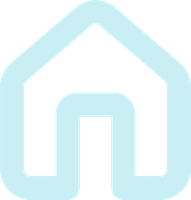
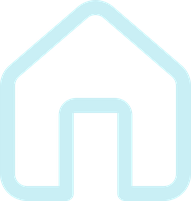
Integrate the new asset set on Trade Day Check-In and the dock
All seven assets trimmed of transparent padding, scaled and installed.

- checklist .png turned out to be the icon circle and title pill as one
  piece, not just the pill, so it replaces both. Applied as a 9-slice:
  the left border carries the circle and is kept equal to the row height
  so it always renders round, the right border holds the pill's cap, and
  only the middle stretches. The label reaches past the right border so
  it sits mid-pill rather than mid-content-box.
- Doc menu Circle serves both its uses: the check-off ring on every
  checklist row (green tick drops inside it when done) and the dock
  active-state indicator, which now tracks the section you're in —
  home/lesson, videos, or check-in.
- icon-button-frame backs the four category buttons.
- Home Icon and Play button icon replace the old files in place, so they
  apply everywhere those icons already appeared: the dock home and play,
  the check-in bar's home, and the check-in dock's play.
- Trade day and Trade Journal icons head two new side-menu entries.
  Check-In opens the screen; Trade Journal opens a coming-soon panel
  since that screen does not exist yet.

Cleanup: the old top-bar clipboard icon is gone — the side menu is now
the entry point, so there is no second, conflicting way in. The check-in
dock keeps its list icon as that section's tab marker.

Row height trimmed 58->55px with matching spacing so the four category
labels clear the card on a standard phone; the new frames are larger
[…]

diff --git a/css/style.css b/css/style.css
@@ -400,6 +400,19 @@ img { user-select: none; -webkit-user-drag: none; }
   transition: transform .12s ease, filter .2s ease;
 }
 .dock-btn:active { transform: scale(.9); filter: brightness(1.45); }
+/* Doc menu Circle sits behind whichever icon matches the current section */
+.dock-btn.active::before {
+  content: "";
+  position: absolute;
+  inset: 50% auto auto 50%;
+  translate: -50% -50%;
+  width: 46px;
+  height: 46px;
+  background: url("../assets/buttons-icon/checkin-status-ring@2x.png") center / contain no-repeat;
+  pointer-events: none;
+}
+.dock-btn { position: relative; }
+.dock-btn.active img { filter: brightness(1.25); }
 .dock-btn img { width: 30px; height: 30px; object-fit: contain; }
 .dock-btn.glow-cyan { filter: brightness(1.45) drop-shadow(0 0 10px rgba(61,223,255,.65)); }
 
@@ -1076,6 +1089,25 @@ img { user-select: none; -webkit-user-drag: none; }
 }
 .sv-other.hidden { display: none; }
 
+/* side-menu shortcuts to the standalone tools */
+.menu-tools { display: flex; flex-direction: column; gap: 10px; margin-bottom: 18px; }
+.menu-tool {
+  display: flex;
+  align-items: center;
+  gap: 12px;
+  width: 100%;
+  padding: 10px 14px;
+  border-radius: 16px;
+  background: linear-gradient(180deg, rgba(20,32,64,.55), rgba(7,10,24,.8));
+  border: 1px solid rgba(61,223,255,.3);
+  font-size: calc(14.5px * var(--fs));
+  font-weight: 700;
+  color: #EAF6FF;
+  text-align: left;
+}
+.menu-tool img { width: 30px; height: 30px; object-fit: contain; flex: 0 0 auto; }
+.menu-tool:active { border-color: var(--cyan); filter: brightness(1.2); }
+
 /* ===================== TRADE DAY CHECK-IN ===================== */
 
 /* date/time bar — replaces the progress bar on this screen. Home sits hard
@@ -1108,69 +1140,66 @@ img { user-select: none; -webkit-user-drag: none; }
   font-weight: 800;
   color: var(--cyan);
   text-shadow: 0 0 16px rgba(61,223,255,.6);
-  margin: 4px 0 22px;
+  margin: 2px 0 18px;
 }
 
 /* rows: icon placeholder · title pill · status. One tap target per row so the
    whole thing is hittable; the status circle only ever reports state. */
-.ci-list { display: flex; flex-direction: column; gap: 12px; }
+.ci-list { display: flex; flex-direction: column; gap: 9px; }
 .ci-row {
   display: grid;
-  grid-template-columns: 56px 1fr 40px;
+  grid-template-columns: 1fr 46px;
   align-items: center;
-  gap: 12px;
+  gap: 10px;
   width: 100%;
-  min-height: 52px;
   padding: 0;
   text-align: left;
 }
-.ci-icon {
-  width: 52px;
-  height: 52px;
-  border-radius: 50%;
-  border: 1.5px solid rgba(61,223,255,.5);
-  background: radial-gradient(circle at 34% 28%, rgba(61,223,255,.16), rgba(9,13,30,.92) 68%);
-  box-shadow: 0 0 12px -2px rgba(61,223,255,.45), inset 0 0 10px rgba(123,95,192,.3);
+/* checkin-row-plate is the icon circle and title pill as one piece, so it is
+   9-sliced: the left border holds the circle (rendered square, so it stays
+   round), the right border the pill's cap, and the middle stretches. */
+.ci-plate {
+  position: relative;
+  display: block;
+  height: 55px;
+  border-style: solid;
+  border-width: 0 20px 0 55px;
+  border-image: url("../assets/bars/checkin-row-plate@2x.png") 0 65 0 180 fill / 0 20px 0 55px stretch;
 }
-.ci-pill {
+/* centred across the pill itself — the padding box stops short of the cap,
+   so reach past it to keep the text visually mid-pill */
+.ci-label {
+  position: absolute;
+  inset: 0 -20px 0 0;
   display: grid;
   place-items: center;
-  min-height: 46px;
-  padding: 9px 14px;
-  border-radius: 999px;
-  border: 2px solid transparent;
-  border-image: url("../assets/bars/background-bar-pill@2x.png") 54 60 fill / 20px 23px stretch;
   font-size: calc(15px * var(--fs));
   font-weight: 700;
-  letter-spacing: .01em;      /* uniform across all six rows */
+  letter-spacing: .01em;
   color: #EAF6FF;
   text-align: center;
 }
 .ci-status {
-  width: 40px;
-  height: 40px;
-  border-radius: 50%;
-  border: 1.5px solid rgba(61,223,255,.45);
-  background: rgba(9,13,30,.85);
+  width: 46px;
+  height: 46px;
   position: relative;
+  background: url("../assets/buttons-icon/checkin-status-ring@2x.png") center / contain no-repeat;
 }
-/* empty circle -> green tick, drawn so it needs no icon asset */
-.ci-row.done .ci-status {
-  border-color: var(--teal);
-  box-shadow: 0 0 12px rgba(47,230,194,.55);
-}
+/* the ring is the untouched state; completing drops a green tick inside it */
 .ci-row.done .ci-status::after {
   content: "";
   position: absolute;
-  left: 13px;
-  top: 8px;
-  width: 9px;
-  height: 16px;
+  left: 16px;
+  top: 12px;
+  width: 10px;
+  height: 18px;
   border: solid var(--teal);
-  border-width: 0 2.5px 2.5px 0;
+  border-width: 0 3px 3px 0;
   transform: rotate(45deg);
+  filter: drop-shadow(0 0 6px rgba(47,230,194,.9));
 }
-.ci-row:active .ci-pill { filter: brightness(1.3); }
+.ci-row.done .ci-plate { filter: brightness(1.12); }
+.ci-row:active .ci-plate { filter: brightness(1.3); }
 .ci-row:active { transform: scale(.99); }
 
 /* four round action placeholders — laid out but inert until specified */
@@ -1178,17 +1207,14 @@ img { user-select: none; -webkit-user-drag: none; }
   display: grid;
   grid-template-columns: repeat(4, 1fr);
   gap: 8px;
-  margin: 26px 0 4px;
+  margin: 18px 0 2px;
 }
 .ci-action { display: flex; flex-direction: column; align-items: center; gap: 8px; }
 .ci-orb {
   width: 100%;
   max-width: 62px;
   aspect-ratio: 1;
-  border-radius: 50%;
-  border: 1.5px solid rgba(61,223,255,.45);
-  background: radial-gradient(circle at 34% 28%, rgba(61,223,255,.14), rgba(9,13,30,.92) 70%);
-  box-shadow: 0 0 14px -3px rgba(255,61,154,.45), inset 0 0 12px rgba(123,95,192,.28);
+  background: url("../assets/buttons-icon/icon-button-frame@2x.png") center / contain no-repeat;
 }
 .ci-action-label {
   font-size: calc(10.5px * var(--fs));

diff --git a/js/app.js b/js/app.js
@@ -721,8 +721,7 @@
         ${CHECKIN_ITEMS.map((it) => `
           <button class="ci-row${store.checklist[it.id] ? " done" : ""}" data-ci="${it.id}"
                   aria-pressed="${!!store.checklist[it.id]}">
-            <span class="ci-icon" aria-hidden="true"></span>
-            <span class="ci-pill">${esc(it.label)}</span>
+            <span class="ci-plate"><span class="ci-label">${esc(it.label)}</span></span>
             <span class="ci-status" aria-hidden="true"></span>
           </button>`).join("")}
       </div>
@@ -745,6 +744,14 @@
     render();
   }
 
+  /* ring behind whichever dock icon matches the section you're in */
+  function syncDockActive() {
+    $("navHome").classList.toggle("active", state.view === "home" || state.view === "screen");
+    $("navVideo").classList.toggle("active", state.view === "videos");
+    $("navQuiz").classList.remove("active");
+    $("ciNavList").classList.toggle("active", state.view === "checkin");
+  }
+
   /* the check-in view swaps in its own date/time bar and dock */
   function syncCheckinChrome() {
     const on = state.view === "checkin";
@@ -762,6 +769,7 @@
     const listy = state.view === "home" || state.view === "videos" || state.view === "checkin";
     $("cardOuter").classList.toggle("outline-bg", listy);
     syncCheckinChrome();
+    syncDockActive();
     if (state.view === "home") renderHome();
     else if (state.view === "videos") renderVideos();
     else if (state.view === "checkin") renderCheckin();
@@ -841,7 +849,13 @@
 
   /* menu drawer — full section/subsection navigation (same as All Sections) */
   function openMenu() {
-    const html = panelHead("Course Menu") + DATA.modules.map((mod) => `
+    const html = panelHead("Course Menu") + `
+      <div class="menu-tools">
+        <button class="menu-tool" data-open-checkin>
+          <img src="assets/nav-icons/icon-trade-day@2x.png" alt="">Trade Day Check-In</button>
+        <button class="menu-tool" data-open-journal>
+          <img src="assets/nav-icons/icon-trade-journal@2x.png" alt="">Trade Journal</button>
+      </div>` + DATA.modules.map((mod) => `
       <div class="menu-module">
         <div class="menu-module-title">Module ${mod.num} — ${esc(mod.tagline)}</div>
         ${mod.sections.map((sec) => {
@@ -1077,11 +1091,9 @@
   $("btnSettings").addEventListener("click", openSettings);
   $("btnProfile").addEventListener("click", openProfile);
   $("btnHeart").addEventListener("click", toggleLike);
-  $("btnChecklist").innerHTML = SVG.checklist;
   $("ciNavList").innerHTML = SVG.checklist;
   $("btnNotes").innerHTML = SVG.notes;
   $("btnHeart").innerHTML = SVG.heart;
-  $("btnChecklist").addEventListener("click", openCheckin);
   $("btnNotes").addEventListener("click", openNotes);
 
   function openComingSoon() {
@@ -1115,10 +1127,19 @@
   /* ---------------- delegated clicks (rendered content + overlays) ------ */
 
   document.addEventListener("click", (e) => {
-    const t = e.target.closest("[data-tab],[data-mod],[data-sec],[data-sub],[data-screen],[data-close],[data-menu-sec],[data-set-sound],[data-set-size],[data-save-note],[data-notes-list],[data-logout],[data-reset-progress],[data-vcat],[data-vid],[data-vback],[data-vfull],[data-grid],[data-grid-back],[data-grid-play],[data-ci]");
+    const t = e.target.closest("[data-tab],[data-mod],[data-sec],[data-sub],[data-screen],[data-close],[data-menu-sec],[data-set-sound],[data-set-size],[data-save-note],[data-notes-list],[data-logout],[data-reset-progress],[data-vcat],[data-vid],[data-vback],[data-vfull],[data-grid],[data-grid-back],[data-grid-play],[data-ci],[data-open-checkin],[data-open-journal]");
     if (!t) return;
 
-    if (t.dataset.ci) {
+    if (t.hasAttribute("data-open-checkin")) { closeOverlay(); openCheckin(); }
+    else if (t.hasAttribute("data-open-journal")) {
+      openOverlay(panelHead("Trade Journal") + `
+        <div class="liked-empty">
+          <img src="assets/nav-icons/icon-trade-journal@2x.png" alt="" style="width:76px;display:block;margin:0 auto 14px;filter:drop-shadow(0 0 12px rgba(61,223,255,.4))">
+          The Trade Journal is coming soon — log entries, review your trades and track what your discipline is actually costing or earning you.
+        </div>
+        <button class="btn-primary" data-close>Got it</button>`);
+    }
+    else if (t.dataset.ci) {
       const id = t.dataset.ci;
       if (store.checklist[id]) delete store.checklist[id]; else store.checklist[id] = true;
       save();

diff --git a/sw.js b/sw.js
@@ -3,7 +3,7 @@
  * deploys show up immediately; only falls back to cache when offline.
  * Heavy binary assets (images) are cache-first since they rarely change.
  */
-const CACHE = "learnaeway-v25";
+const CACHE = "learnaeway-v26";
 
 const SHELL = [
   "./",
@@ -38,6 +38,11 @@ const SHELL = [
   "./assets/buttons-icon/btn-volume-off@2x.png",
   "./assets/buttons-icon/btn-replay@2x.png",
   "./assets/nav-icons/icon-home@2x.png",
+  "./assets/nav-icons/icon-trade-day@2x.png",
+  "./assets/nav-icons/icon-trade-journal@2x.png",
+  "./assets/bars/checkin-row-plate@2x.png",
+  "./assets/buttons-icon/checkin-status-ring@2x.png",
+  "./assets/buttons-icon/icon-button-frame@2x.png",
   "./assets/nav-icons/icon-menu@2x.png",
   "./assets/nav-icons/icon-settings@2x.png",
   "./assets/nav-icons/icon-user@2x.png",

diff --git a/index.html b/index.html
@@ -48,7 +48,6 @@
         <div id="progressFill" class="progress-fill" style="width:0%"></div>
         <span id="progressLabel" class="progress-label">0%</span>
       </div>
-      <button id="btnChecklist" class="bar-icon" aria-label="Daily trading checklist"></button>
     </div>
 
     <!-- Trade Day Check-In swaps the progress bar for a live date/time bar -->
